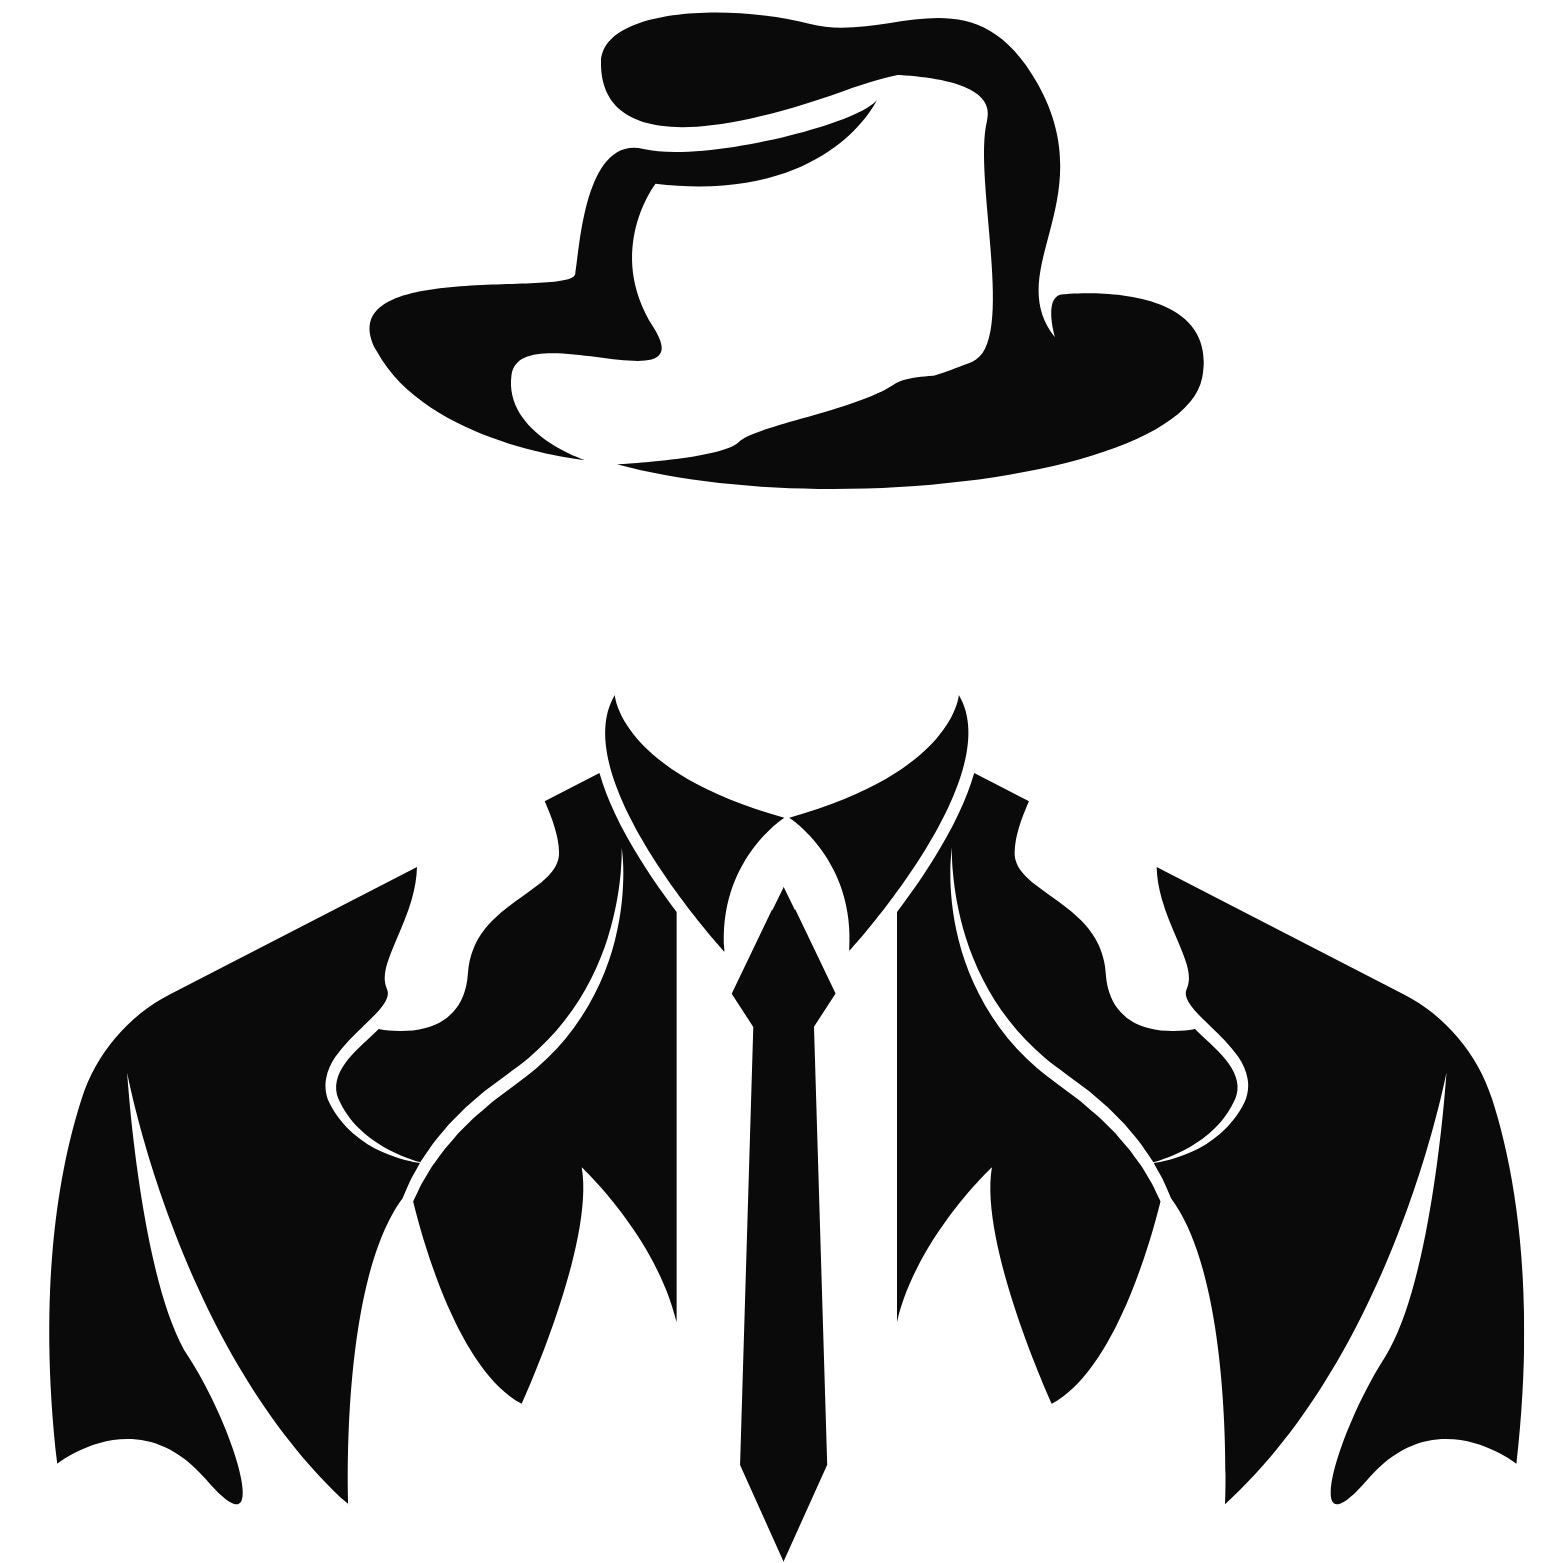
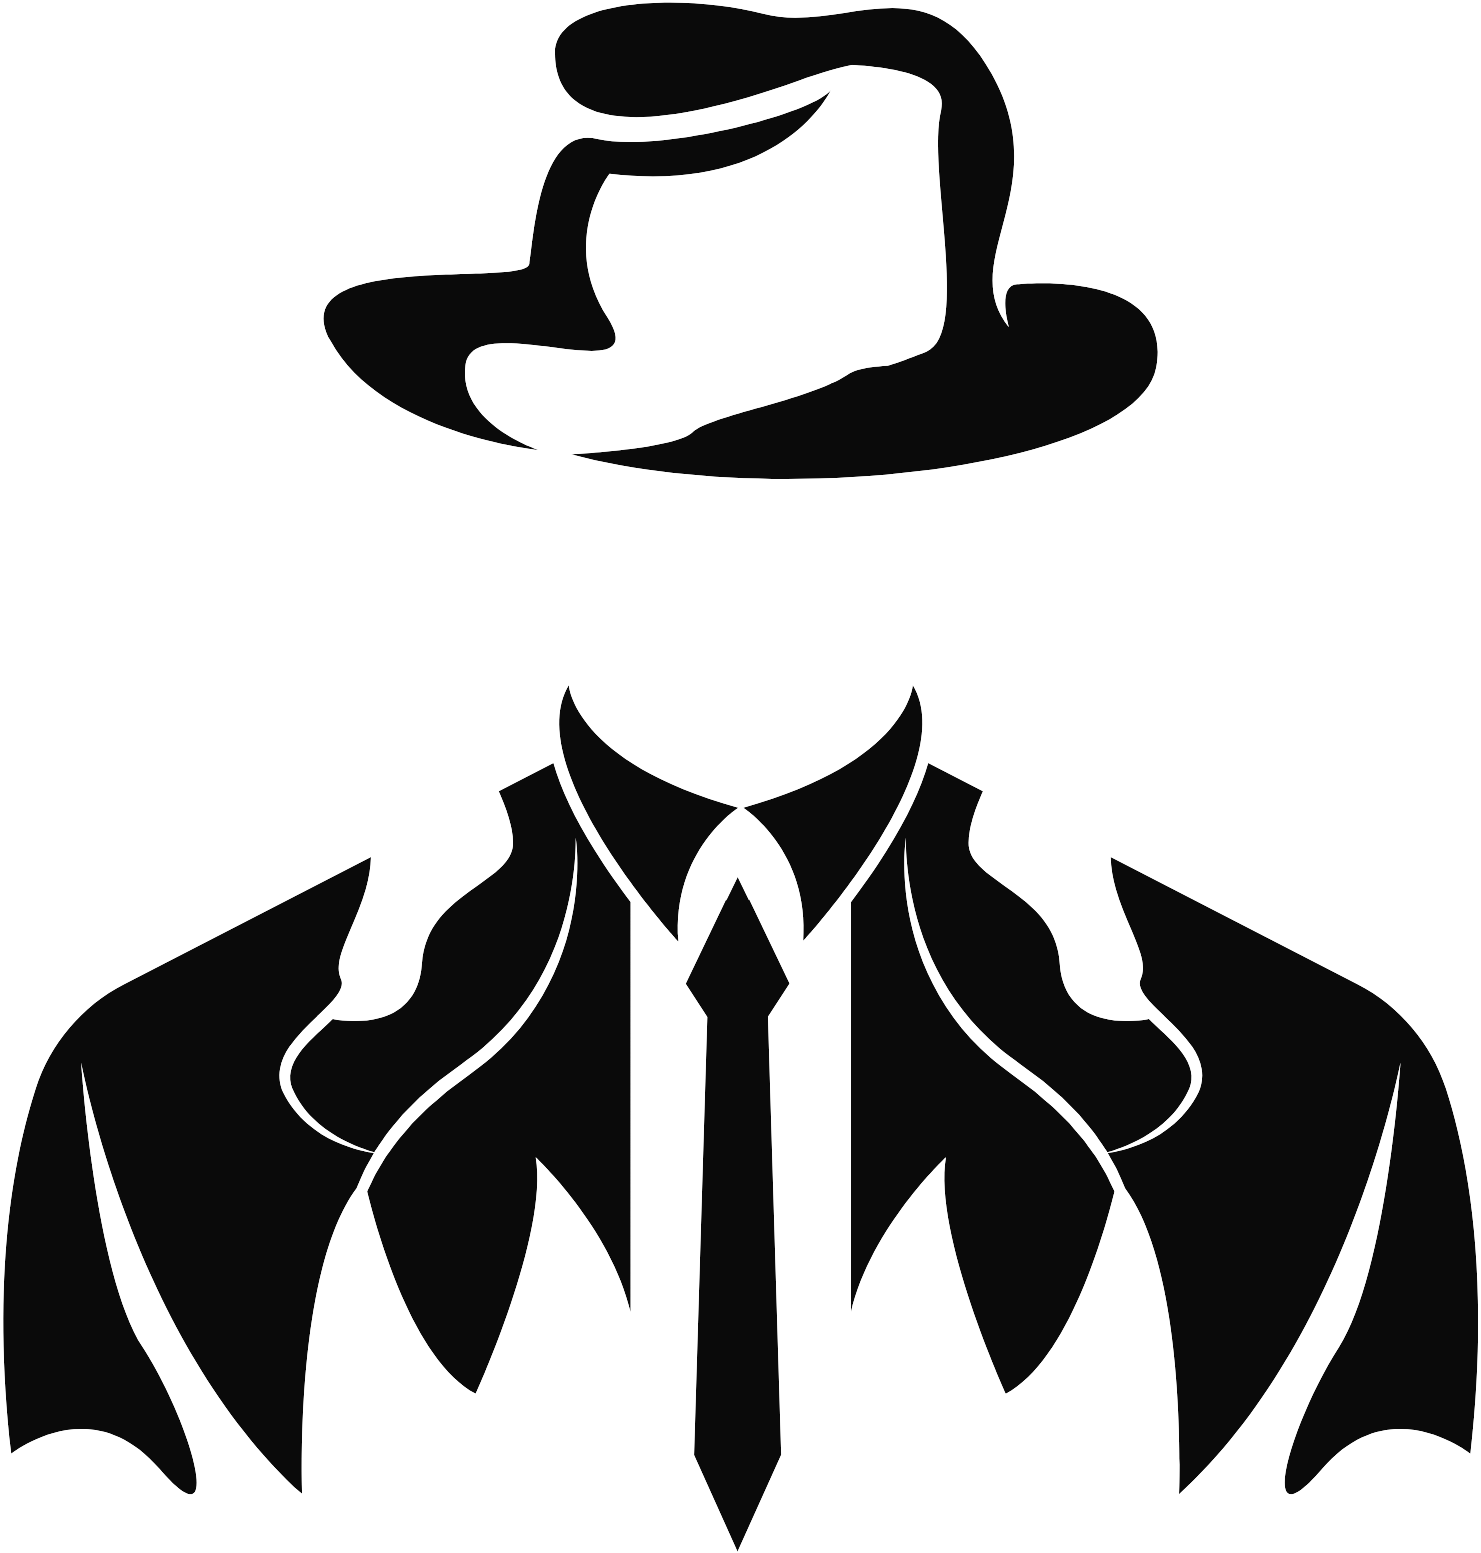
refactor: suit images

diff --git a/app/[locale]/contact/page.tsx b/app/[locale]/contact/page.tsx
@@ -7,9 +7,11 @@ import Footer from "@/components/footer";
 import { ProfileForm } from "@/components/form";
 import { DrawCircleText } from "@/components/draw-circle-text";
 import PageWithLoader from "@/components/page-with-loader";
+import { useTheme } from "next-themes";
 
 export default function Contact() {
   const t = useTranslations("Contact");
+  const { theme } = useTheme();
 
   return (
     <PageWithLoader text={t("section")}>
@@ -22,11 +24,15 @@ export default function Contact() {
       >
         <div className="relative">
           <Image
-            src="/images/second-suit.png"
+            src={
+              theme === "dark"
+                ? "/images/suit-contact.png"
+                : "/images/suit-contact-light-mode.png"
+            }
             alt="Suit image"
             width={1000}
             height={1000}
-            className="absolute top-0 right-0 -scale-x-100 pointer-events-none hidden lg:block opacity-80"
+            className="absolute top-0 right-0 -scale-x-100 pointer-events-none hidden lg:block opacity-100 dark:opacity-80"
           />
         </div>
         <main className="flex flex-col items-center lg:items-start justify-center gap-y-2 lg:gap-y-10">

diff --git a/app/[locale]/about/page.tsx b/app/[locale]/about/page.tsx
@@ -53,7 +53,7 @@ const renderBackgroundImage = () => {
         width={1000}
         height={1000}
         alt=""
-        className="absolute top-0 lg:top-[-10rem] right-0 text-[100vw] lg:text-[60vw] opacity-15 -scale-x-100 pointer-events-none"
+        className="absolute top-0 lg:top-[-10rem] right-0 text-[100vw] lg:text-[60vw] opacity-20 dark:opacity-15 -scale-x-100 pointer-events-none"
         style={{
           WebkitMaskImage: `
             linear-gradient(to top, rgba(0,0,0,1) 80%, rgba(0,0,0,0) 100%),
